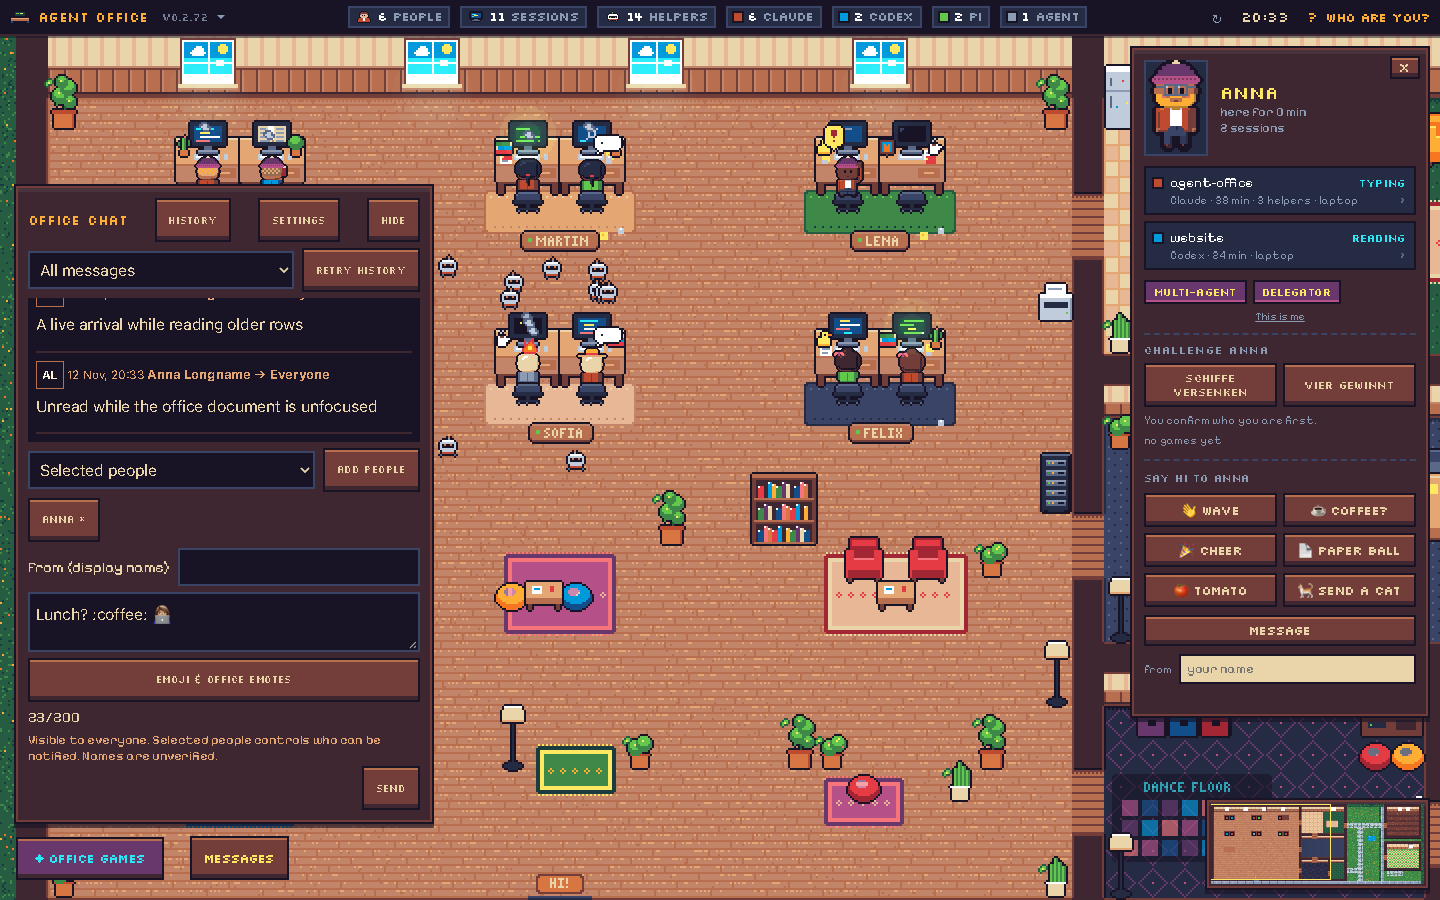
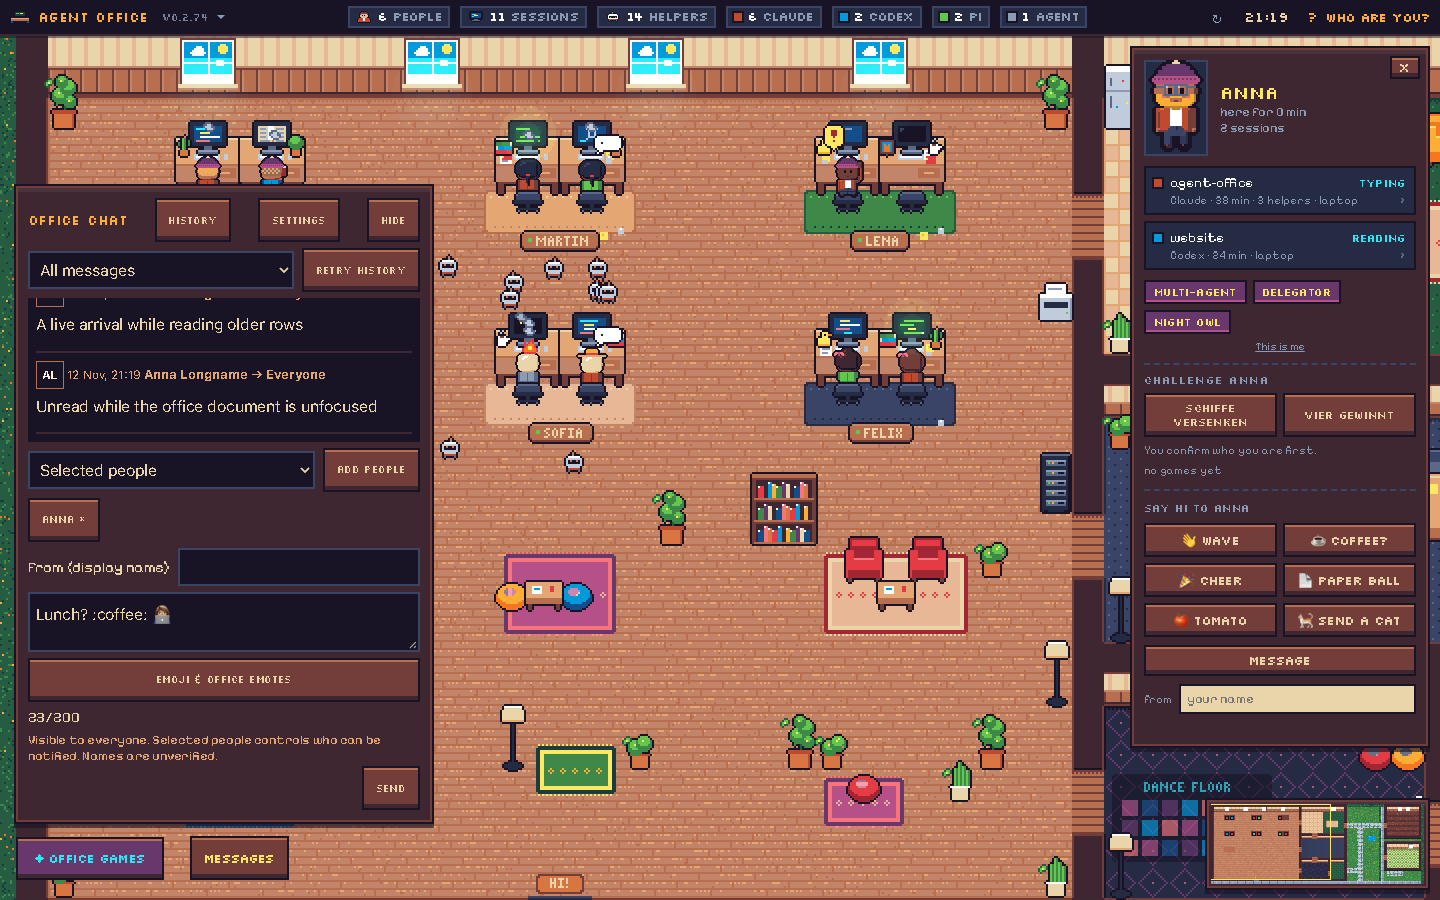
Apply chat background to the full card with an 85 percent default

diff --git a/tools/screenshots/chat-smoke.ts b/tools/screenshots/chat-smoke.ts
@@ -46,10 +46,10 @@ export async function checkChatOverlay(
     check(
       await panel.evaluate(
         (el) =>
-          getComputedStyle(el).backgroundColor === "rgba(0, 0, 0, 0)" ||
-          getComputedStyle(el).backgroundColor.endsWith("/ 0)"),
+          el.style.getPropertyValue("--chat-fill") === "85%" &&
+          getComputedStyle(el).backgroundColor !== "rgba(0, 0, 0, 0)",
       ),
-      "unused panel space is transparent",
+      "default full card, including unused space, has an 85% fill",
     );
     check((await page.locator(".messages-log img").count()) >= 6, "six local emotes render inline");
     check(
@@ -66,7 +66,17 @@ export async function checkChatOverlay(
       await panel.evaluate((el) => !el.contains(document.activeElement)),
       "boot does not steal focus",
     );
-    await shoot(page, "18-chat-clear-bright");
+    check(
+      await page
+        .locator(
+          ".messages-log, .messages-log article, .messages-log article p, .messages-byline b, .messages-byline time",
+        )
+        .evaluateAll((rows) =>
+          rows.every((row) => getComputedStyle(row).backgroundColor === "rgba(0, 0, 0, 0)"),
+        ),
+      "rows and text have no separate backings",
+    );
+    await shoot(page, "18-chat-card-bright");
     await panel.press("Escape");
     check(await panel.isVisible(), "idle Escape does not hide persistent feed");
     await page.locator(".messages-log").evaluate((el) => {
@@ -139,6 +149,29 @@ export async function checkChatOverlay(
         await panel.evaluate((el) => getComputedStyle(el).opacity === "1"),
         `background ${fill}% never fades text`,
       );
+      check(
+        await panel.evaluate((el, fill) => {
+          const canvas = document.createElement("canvas");
+          canvas.width = canvas.height = 1;
+          const context = canvas.getContext("2d")!;
+          context.fillStyle = getComputedStyle(el).backgroundColor;
+          context.fillRect(0, 0, 1, 1);
+          return (
+            Math.abs(
+              context.getImageData(0, 0, 1, 1).data[3]! - Math.round((Number(fill) / 100) * 255),
+            ) <= 1
+          );
+        }, fill),
+        `background ${fill}% is applied to the whole card`,
+      );
+      check(
+        await page
+          .locator(".messages-log article p, .messages-byline b, .messages-byline time")
+          .evaluateAll((rows) =>
+            rows.every((row) => getComputedStyle(row).backgroundColor === "rgba(0, 0, 0, 0)"),
+          ),
+        `background ${fill}% never adds per-row backings`,
+      );
     }
     for (const size of ["16", "18", "20"]) {
       await page.getByLabel("Text size", { exact: true }).selectOption(size);
@@ -149,7 +182,7 @@ export async function checkChatOverlay(
         `live text-size sample ${size}px`,
       );
     }
-    await page.getByLabel("Overlay background", { exact: true }).selectOption("0");
+    await page.getByLabel("Overlay background", { exact: true }).selectOption("85");
     await page.getByLabel("Text size", { exact: true }).selectOption("16");
     await page.getByRole("button", { name: "Done", exact: true }).click();
     check(
@@ -324,7 +357,7 @@ export async function checkChatOverlay(
     await page.goto(`${http}/?hour=23`);
     await page.waitForFunction(() => window.__office?.ready);
     await page.locator(".messages-log article").last().waitFor();
-    await shoot(page, "18-chat-clear-dark");
+    await shoot(page, "18-chat-card-dark");
     await page.route("**/emotes/office/coffee.svg", (route) => route.abort());
     await page.reload();
     await page.waitForFunction(() => window.__office?.ready);

diff --git a/apps/web/test/messageContrast.test.ts b/apps/web/test/messageContrast.test.ts
@@ -11,12 +11,13 @@ const contrast = (a: number[], b: number[]) => {
   const values = [luminance(a), luminance(b)].sort((a, b) => b - a);
   return (values[0]! + 0.05) / (values[1]! + 0.05);
 };
-test("opaque chat text on minimal local support meets contrast over worst-case white scenery", () => {
-  // messages.css: #181425e6 text-only backing. Full-panel fill remains zero.
-  const support = [24, 20, 37].map((v) => v * (230 / 255) + 255 * (25 / 255));
+test("opaque chat text on the default full-card fill meets contrast over worst-case white scenery", () => {
+  // messages.css: #181425 at 85% on the entire card, with no row/text backings.
+  const support = [24, 20, 37].map((v) => v * 0.85 + 255 * 0.15);
   expect(contrast([255, 245, 214], support)).toBeGreaterThanOrEqual(4.5);
-  expect(contrast([196, 181, 163], support)).toBeGreaterThanOrEqual(4.5);
+  const metadata = [228, 166, 114]; // theme.css --sand, used by sender names and timestamps.
+  expect(contrast(metadata, support)).toBeGreaterThanOrEqual(4.5);
   console.log(
-    `Chat contrast: body ${contrast([255, 245, 214], support).toFixed(2)}:1; metadata ${contrast([196, 181, 163], support).toFixed(2)}:1 (white scene)`,
+    `Chat contrast: body ${contrast([255, 245, 214], support).toFixed(2)}:1; metadata ${contrast(metadata, support).toFixed(2)}:1 (white scene)`,
   );
 });

diff --git a/apps/web/test/messagePreferences.test.ts b/apps/web/test/messagePreferences.test.ts
@@ -2,7 +2,8 @@ import { describe, expect, test } from "bun:test";
 import { defaultPresentation, messagePreferences } from "../src/state/messagePreferences.ts";
 
 describe("message presentation migration", () => {
-  test("fresh browsers see clear overlay without a legacy preference", () => {
+  test("fresh browsers see a dark full-card overlay without a legacy preference", () => {
+    expect(defaultPresentation.background).toBe(85);
     expect(messagePreferences(null, null)).toEqual({
       version: 1,
       visible: true,
@@ -21,6 +22,12 @@ describe("message presentation migration", () => {
       appearance: { ...defaultPresentation, mode: "popup", size: 20, background: 85 },
     } as const;
     expect(messagePreferences(JSON.stringify(saved), null)).toEqual(saved);
+  });
+  test("an explicitly saved Clear background remains a user choice", () => {
+    expect(
+      messagePreferences(JSON.stringify({ version: 1, appearance: { background: 0 } }), null)
+        .appearance.background,
+    ).toBe(0);
   });
   test.each(["{", "null", "[]", '{"version":2}'])("rejects invalid envelope %s", (raw) => {
     expect(messagePreferences(raw, null).appearance).toEqual(defaultPresentation);

diff --git a/apps/web/src/ui/messages.css b/apps/web/src/ui/messages.css
@@ -267,7 +267,7 @@
   }
 }
 
-/* A clear scene surface. Fill never changes the opacity of text or controls. */
+/* One continuous card surface. Fill never changes the opacity of text or controls. */
 .messages-overlay {
   width: min(
     var(--chat-width),
@@ -333,7 +333,7 @@
 }
 .messages-overlay .messages-log p,
 .messages-sample {
-  /* Small local text support, leaving the unused scene/log area genuinely clear. */
+  /* Outlines keep the optional Clear/Soft card presets legible without row backings. */
   color: #fff5d6;
   text-shadow:
     -1px -1px #181425,
@@ -343,12 +343,7 @@
     0 0 3px #181425;
 }
 .messages-overlay .messages-log p {
-  background: #181425e6;
-  box-decoration-break: clone;
-  -webkit-box-decoration-break: clone;
   display: inline;
-  padding: 2px 4px;
-  border-radius: 3px;
 }
 .messages-byline {
   flex-direction: row;
@@ -364,7 +359,6 @@
 }
 .messages-overlay .messages-byline b,
 .messages-overlay .messages-byline time {
-  background: #181425e6;
   padding: 1px 3px;
 }
 .messages-sender-icon {

diff --git a/apps/web/src/state/messagePreferences.ts b/apps/web/src/state/messagePreferences.ts
@@ -22,7 +22,7 @@ export const defaultPresentation: MessagePresentation = {
   height: 280,
   size: 16,
   font: "readable",
-  background: 0,
+  background: 85,
   icons: true,
   timestamps: true,
   emotes: true,

diff --git a/README.md b/README.md
@@ -480,12 +480,14 @@ with `/timelapse?day=YYYY-MM-DD`; an invalid date falls back to All.
 
 ### Office Messages
 
-New browsers show a persistent **Office chat** feed over the office, with clear unused space
-and small dark text backings for readability. **Write a message…** expands the composer;
+New browsers show a persistent **Office chat** feed over the office, with one continuous
+85% dark card background—not separate row backings. **Write a message…** expands the composer;
 **History** opens filters/older history. Existing browsers keep their saved button/popup mode.
 Use **Chat settings** to switch between **Chat overlay** and **Button + popup**, choose left/right
 placement, width, feed height, 16/18/20px readable or pixel text, background fill (0/20/85/100%),
-sender initials, timestamps and image/text emotes. Settings and Hide are local to this browser;
+sender initials, timestamps and image/text emotes. Fill covers the whole card, including unused
+space; Clear removes that fill without adding row backgrounds. Saved fill choices are preserved.
+Settings and Hide are local to this browser;
 Reset appearance does not clear a draft, recipients, read progress or Mac-alert choice.
 On phones the resting feed shows the newest message in a compact strip. Cards/games can
 temporarily reduce or move the feed; look editing occludes it without discarding a draft.
